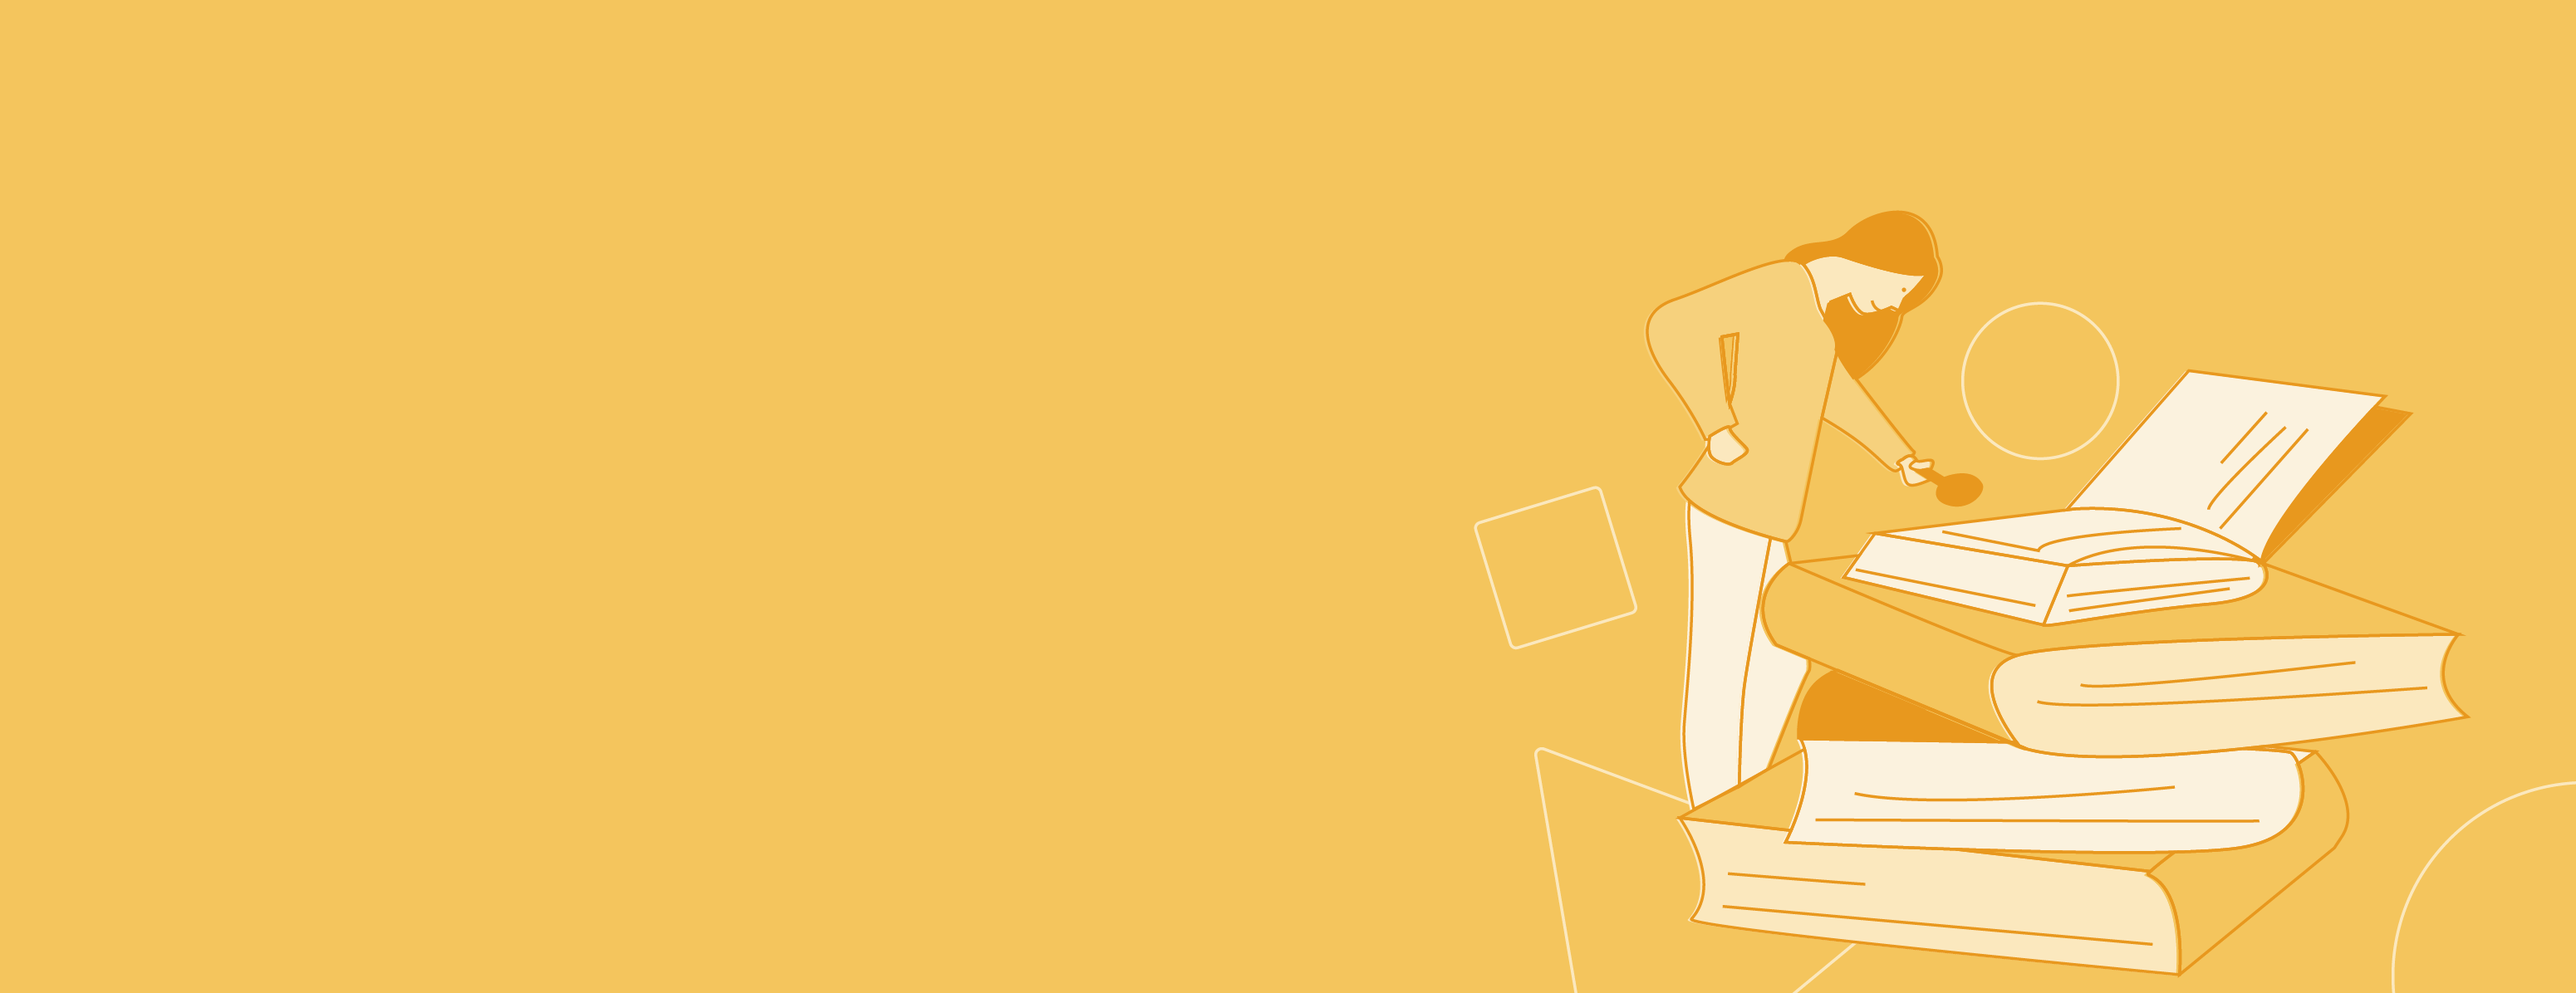
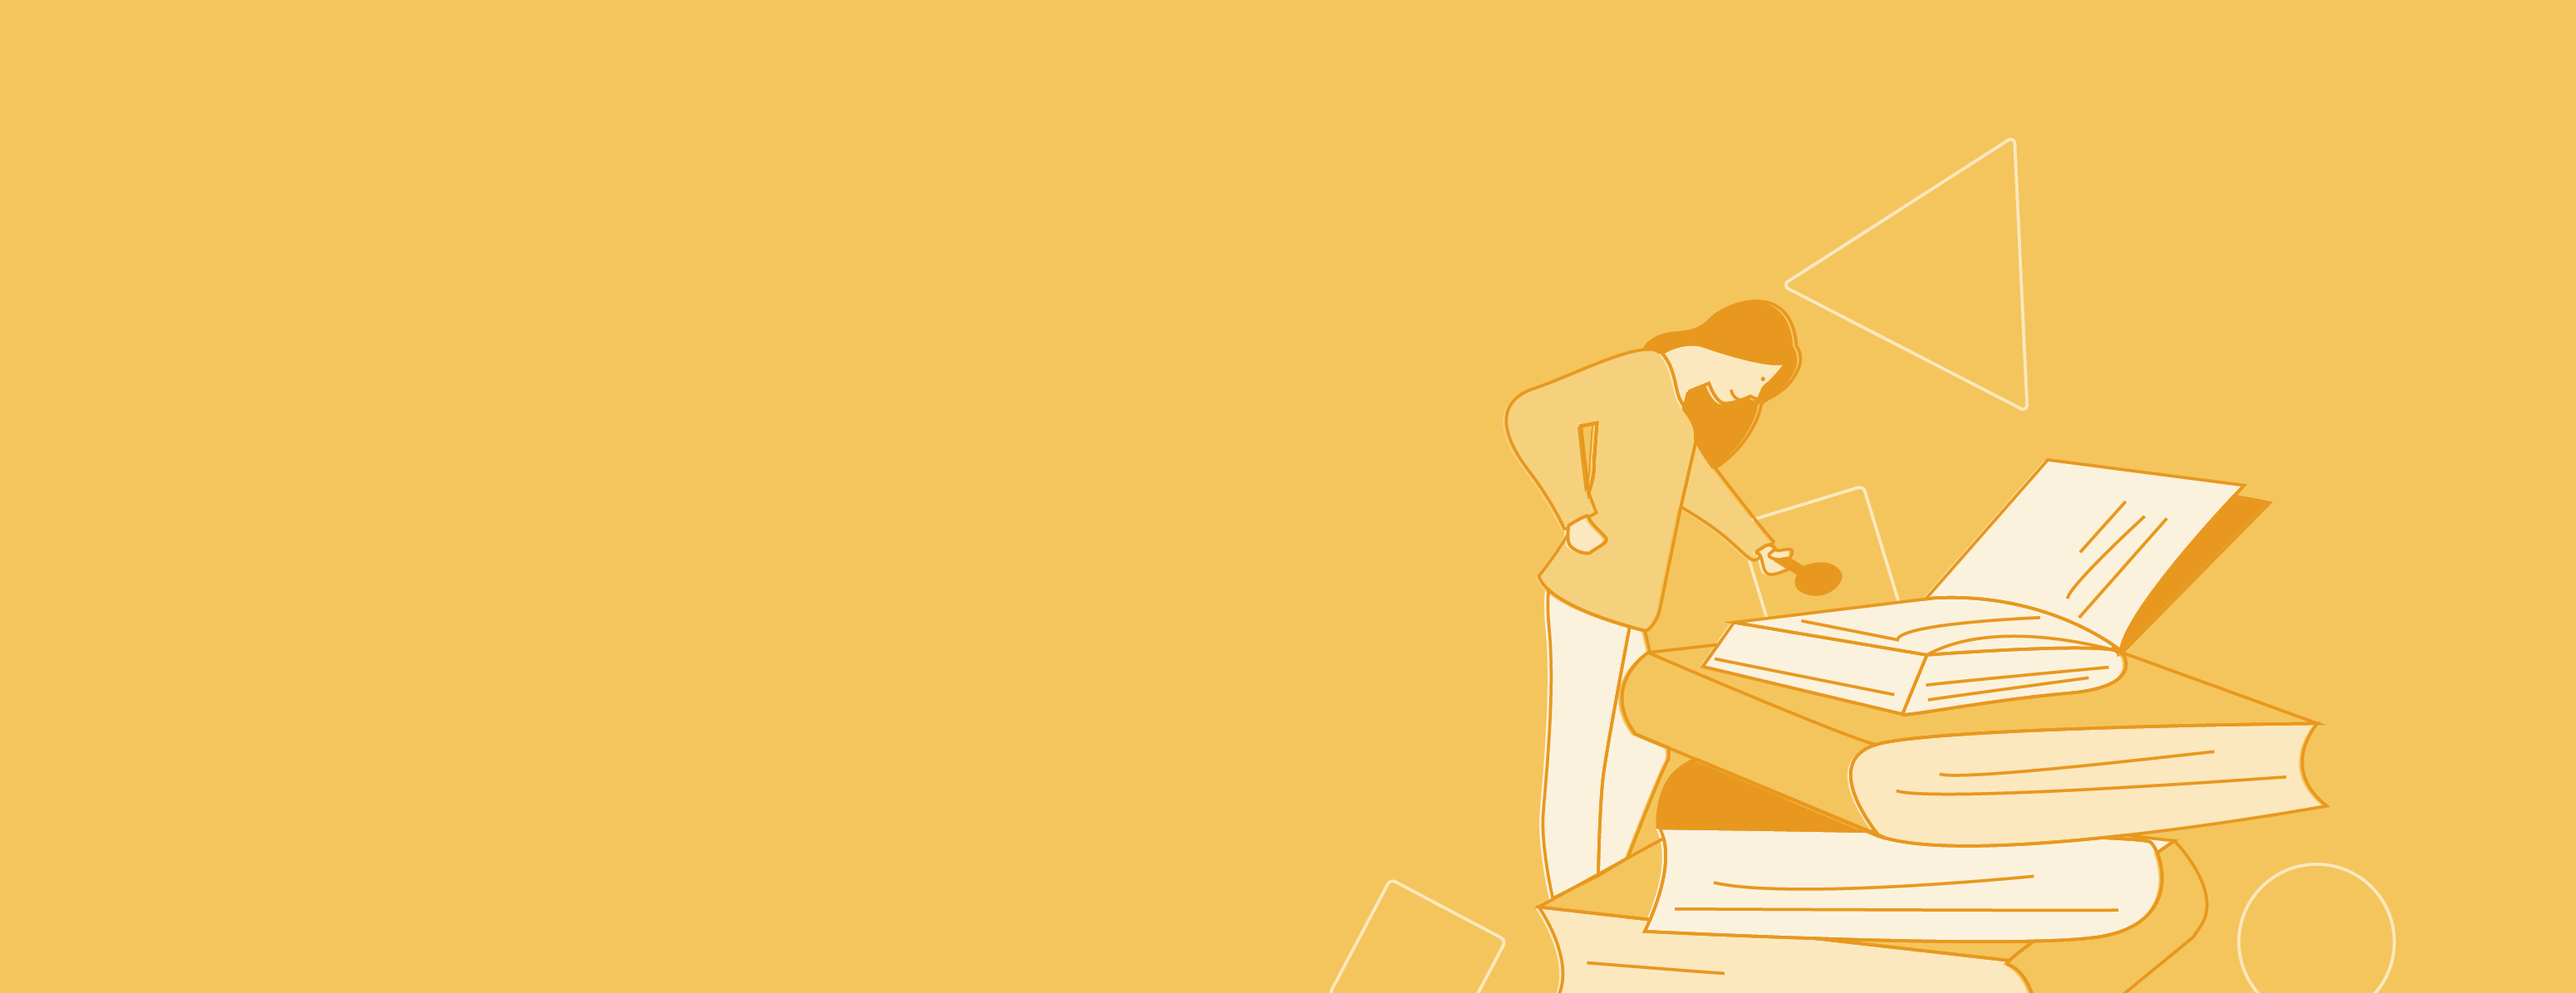
Add updated heroes

Changed region(s): [[0.5572, 0.2166, 0.9597, 1.0], [0.9906, 0.7734, 1.0, 0.8043]]

diff --git a/_sass/pages/_brand.scss b/_sass/pages/_brand.scss
@@ -175,6 +175,15 @@
     }
   }
 
+
+  .brand-hero__content {
+    @include media-breakpoint-up(md) {
+      background-image: url("/img/brand/hero/landing.png");
+      background-size: 740px;
+      background-position-y: top;
+    }
+  }
+
   h1 {
     line-height: 1;
   }
